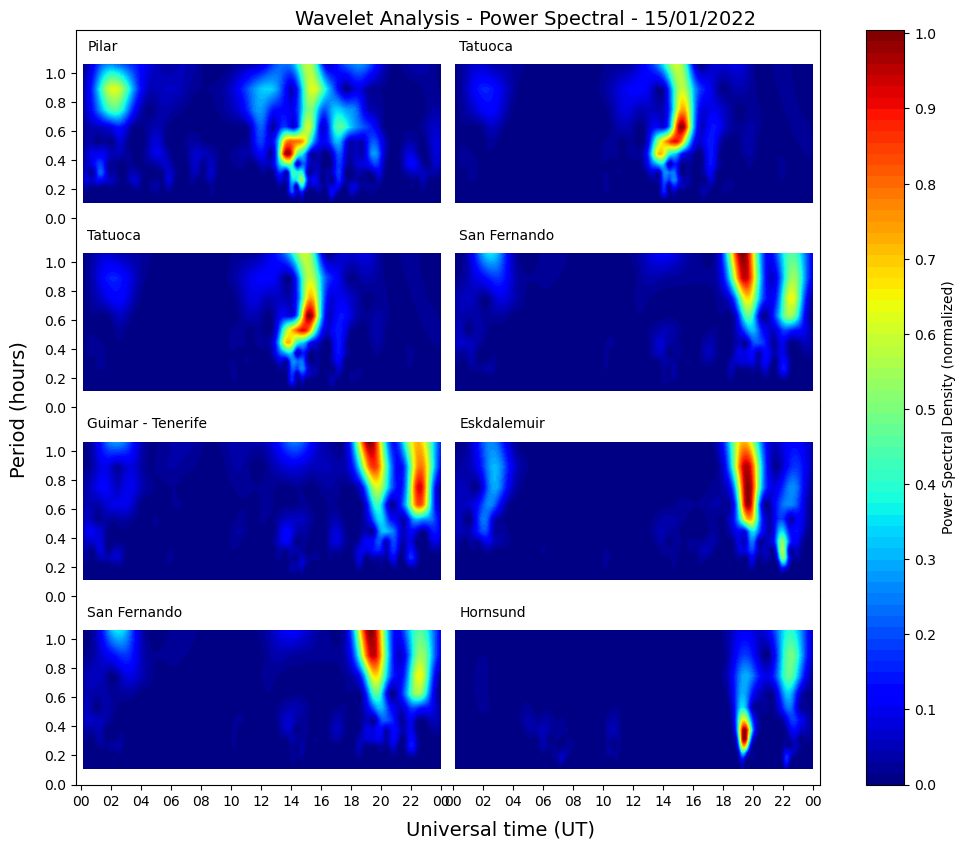
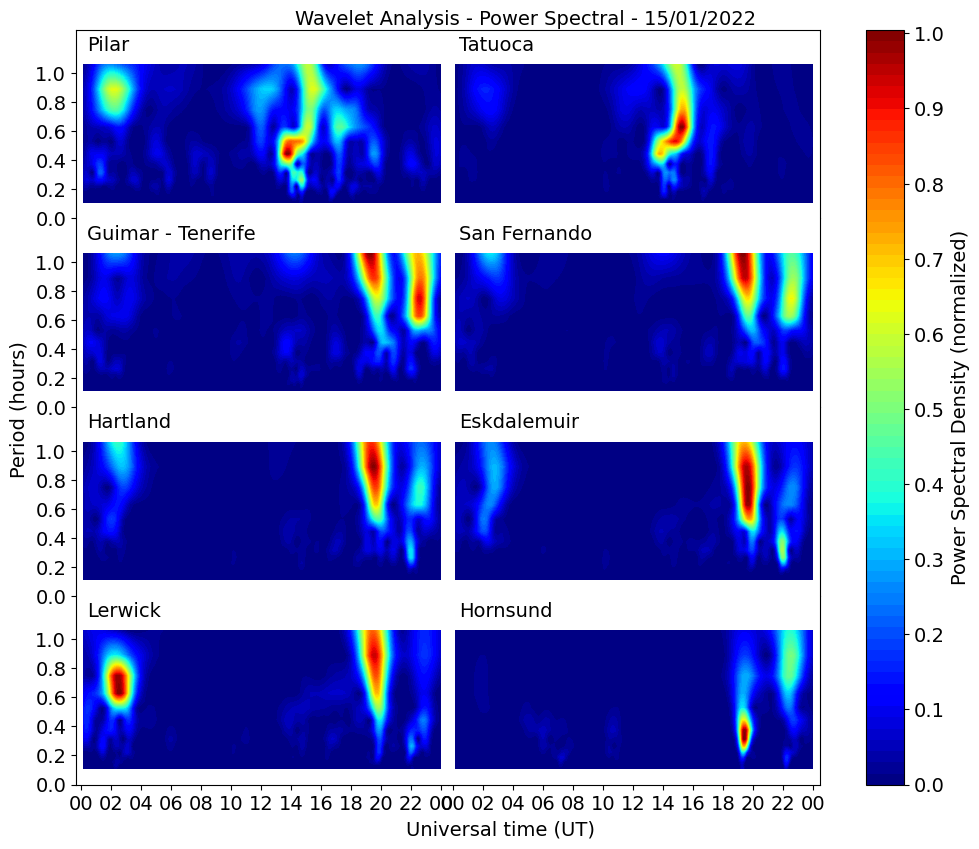
debbuing

diff --git a/SitesLocations.py b/SitesLocations.py
@@ -11,10 +11,7 @@ import sys
 file_dir = os.path.dirname(__file__)
 sys.path.append(file_dir)
 
-from MagnetometersAnalysis import *
-
-
-
+from Intermagnet import *
 
 import cartopy.feature as cf
 import cartopy.crs as ccrs
@@ -22,12 +19,15 @@ import datetime
 import time
 import pyIGRF
 
-def table_igrf(start_lon, end_lon, step_lon, 
+def ComputeIGRF(start_lon, end_lon, step_lon, 
                start_lat, end_lat, step_lat,
                date = datetime.datetime(2022, 1, 15), 
                coord = 'H'):
   
+    """
+    Running IGRF-12 ()
     
+    """
     
     RT = 6370 #in km
     
@@ -35,10 +35,13 @@ def table_igrf(start_lon, end_lon, step_lon,
     latitudes  = np.arange(start_lat, end_lat + step_lat, step_lat)
     
     def toYearFraction(date):
+        
+        "Return years in fraction (like julian date) "
     
        # returns seconds since epoch
         def sinceEpoch(date): # returns seconds since epoch
             return time.mktime(date.timetuple())
+        
         s = sinceEpoch
         
         year = date.year
@@ -61,7 +64,7 @@ def table_igrf(start_lon, end_lon, step_lon,
     for lon in longitudes:
         for lat in latitudes:
             D, I, H, X, Y, Z, F = pyIGRF.igrf_value(lat, 
-                                                    lon, 0, date_fraction)
+                                                    lon, 0 * RT, date_fraction)
             data.append([lon, lat, vars()[coord]])
             
     df = pd.DataFrame(data, columns = ['Lon', 'Lat', coord])
@@ -72,16 +75,18 @@ def plot_MagneticField(ax, date,
                        start_lon, end_lon, step_lon, 
                        start_lat, end_lat, step_lat):
     '''
-    # Get modeling values from IGRF-12 (Library)
+    Get modeling values from IGRF-12 (Library). 
+    The table with the data it is compute in 
+    separated function ()
     '''
-    df = table_igrf(start_lon, end_lon, step_lon, 
+    df = ComputeIGRF(start_lon, end_lon, step_lon, 
                    start_lat, end_lat, step_lat, 
                    date = date, 
                    coord = 'I')
     
     CS = ax.contour(df.columns, df.index, df.values, 0, cmap = 'Dark2')
     
-    ax.clabel(CS, CS.levels, inline=True, fontsize = 10)
+    ax.clabel(CS, CS.levels, inline = True, fontsize = 10)
 
 def features_of_map(fig, ax, 
                     start_lon, end_lon, step_lon, 
@@ -121,83 +126,89 @@ def features_of_map(fig, ax,
                   crs=ccrs.PlateCarree())
 
 
-date = datetime.datetime(2022, 1, 15)    
-    
-    
 
+
+def Plot(fig, ax, files, infile, dip = True, 
+         fontsize = 13, save  = False):
+    
+    longitudes = []
+    latitudes = []
+    for filename in files:
+        
+        instance_ = intermagnet(filename, infile)
+        
+        lat = instance_.latitude
+        lon = instance_.longitude
+        name = instance_.name
+        
+        longitudes.append(lon)
+        latitudes.append(lat)
+        # Plot locations sites
+        ax.plot(lon, lat, 'o', color = 'red', 
+                marker = '^', markersize = 10)
+        
+        offset = 1
+        ax.text(lon, lat + offset, name, fontsize = fontsize)
+            
+    # Continuous line from de lower to upper station (by latitude)
+    ax.plot([longitudes[0], longitudes[-1]], 
+            [latitudes[0], latitudes[-1]], 
+            color = 'k', lw = 2)
+    
+    if dip:
+        # Plot magnetic equator
+        
+        abs_path = 'C:/Users/LuizF/Google Drive/My Drive/Python/doctorate-master/GOLD/Level1C/mag_inclination_2021.txt'
+        
+        df = pd.read_csv(abs_path, 
+                         delim_whitespace = True)
+    
+        df = pd.pivot_table(df, columns = 'lon', index = 'lat', values = 'B')
+        
+        ax.contour(df.columns.values, df.index.values, 
+                   df.values, 1, linewidths = 2, color = 'k',
+                       transform = ccrs.PlateCarree())
+        
+        ax.text(0, 5, 'Magnetic Equator', fontsize = fontsize)
+    
+   
+    def date(format_ = "%d/%m/%Y"):
+        return instance_.date.strftime(format_)
+
+    fig.suptitle((f'INTERMAGNET Magnetometers locations - {date()}'), 
+             y = 0.9, fontsize = fontsize)
+    
+    plt.rcParams.update({'font.size': fontsize})
+    
+    if save:
+        
+       NameToSave = 'SitesLocationsMagnetometers.png'
+       path_to_save = 'Figures/INTERMAGNET/'
+    
+       plt.savefig(path_to_save + NameToSave, 
+                    dpi = 100, bbox_inches="tight")
+        
+  
+    plt.show()
+   
+### Plot
 fig = plt.figure(figsize = (15, 12))
 ax = plt.axes(projection = ccrs.PlateCarree())
 
 
-start_lat, end_lat = -90, 90 #-60, 10
-start_lon, end_lon = -90, 60 #-80, -30
+start_lat, end_lat = -60, 90 #-60, 10
+start_lon, end_lon = -75, 30 #-80, -30
 step_lat, step_lon = 15, 15
 
 
 features_of_map(fig, ax, start_lon, end_lon, step_lon, 
                     start_lat, end_lat, step_lat)    
 
-fontsize = 13
-#names, acc, latitudes, longitudes = sites_infos(remove = None)
+
+infile = 'Database/Intermag/'
+
+files = get_filenames_from_codes(infile)
 
 
-coords = pd.read_csv('MagnetometerAnalysis/Database/StationsCoords.txt', delimiter=',')
-
-sts = ['Pilar', 'Tatuoca','Guimar - Tenerife', 
-       'Eskdalemuir', 'Lerwick', 'Hartland', 'Hornsund']
-
-coords = coords.loc[coords['Station'].isin(sts)].sort_values(by=['Lat'])
-
-
-latitudes = pd.to_numeric(coords['Lat'].values)
-longitudes = pd.to_numeric(coords['Lon'].values) 
-
-names = coords['Station'].values
-
-for lat, lon, name in zip(latitudes, longitudes, 
-                          names):
-    
-    
-    
-    ax.plot(lon, lat, 'o', color = 'red', 
-            marker = '^', markersize = 10)
-    
-    offset = 1
-    ax.text(lon, lat + offset, name, fontsize = fontsize)
-        
-
-ax.plot([longitudes[0], longitudes[-1]], 
-        [latitudes[0], latitudes[-1]], 
-        color = 'k', lw = 2)
-
-# Plot magnetic equator
-
-
-
-def Plot_Dip(ax, 
-             infile = 'GOLD/Level1C/mag_inclination_2021.txt'):
-    
-    df = pd.read_csv(infile, delim_whitespace = True)
-
-    df = pd.pivot_table(df, columns = 'lon', index = 'lat', values = 'B')
-    
-    ax.contour(df.columns.values, df.index.values, 
-               df.values, 1, linewidths = 2, color = 'k',
-                   transform = ccrs.PlateCarree())
-    
-   
-
-Plot_Dip(ax)
-
-fig.suptitle((f'Intermagnet Magnetometers locations - {date.strftime("%Y/%m/%d")}'), 
-             y = 0.9)
-
-
-plt.rcParams.update({'font.size': fontsize})   
-
-NameToSave = 'SitesLocationsMagnetometers.png'
-
-save_plot(NameToSave, dpi = 100)
-plt.show()
-   
-
+Plot(fig, ax, files, infile, dip = True, 
+         fontsize = 13, save = True)

diff --git a/Intermagnet.py b/Intermagnet.py
@@ -107,8 +107,7 @@ class intermagnet:
         return self.lon
     
     
-    def dataframe(self, component = 'H',
-                  N = 10):
+    def dataframe(self, dtrend = True, component = 'H'):
         
         # Read csv data files
         self.df = pd.read_csv(self.infile + self.filename, 
@@ -122,10 +121,7 @@ class intermagnet:
         
         # Get code file (acronym for the station name)
         code = self.code.upper()
-        
-        self.df['time'] = self.df.index.hour + (self.df.index.minute / 60)
-        
-        
+            
         
         if self.report == 'XYZF':
             
@@ -134,23 +130,24 @@ class intermagnet:
             self.df.rename(columns = columns, inplace = True)
             
             # Compute the horizontal component (Kirchoff)
-            self.df['H'] = np.sqrt(self.df['X']**2 + 
-                                          self.df['X']**2)
+            self.df['H'] = np.sqrt(self.df['X']**2 + self.df['X']**2)
             
         else:
             columns = {f"{code}H": "H", f"{code}D": "D", 
                        f"{code}Z": "Z", f"{code}F": "F"}
             
             self.df.rename(columns = columns, inplace = True)
-           
-        
-        
-        if component:
+            
+            self.df['Y'] = self.df['H'] * np.sin(np.deg2rad(self.df['D']))
+            
+            self.df['X'] = self.df['H'] * np.cos(np.deg2rad(self.df['D']))
+            
+        if dtrend == True:
             # Compute dtrend
             self.df['dtrend'] = (self.df[component] - 
                                  self.df[component].rolling(window = 
-                                                                 N).mean())
-            
+                                                                 10).mean())
+            self.df['time'] = self.df.index.hour + (self.df.index.minute / 60)
             self.df = self.df.dropna()    
         
         
@@ -185,22 +182,17 @@ def get_filenames_from_codes(infile, sts = ['Pilar', 'Tatuoca',
     
     return result
 
-    
-    
-'''
-for filename in get_filenames_from_codes('Database/Intermag/'):
-
-    instance_ = intermagnet(filename, infile)
-                
-    df = instance_.dataframe(component = 'H') 
-    print(df.head())instance_ = intermagnet(filename, infile)
-            
-df = instance_.dataframe(component = 'H') 
-print(df.head())
-
-
 '''
 
 
+    
 
+files = get_filenames_from_codes('Database/Intermag/')
 
+filename = files[0]
+
+instance_ = intermagnet(filename, infile)
+df = instance_.dataframe(dtrend=True, component = 'X')
+print(df)
+
+'''
